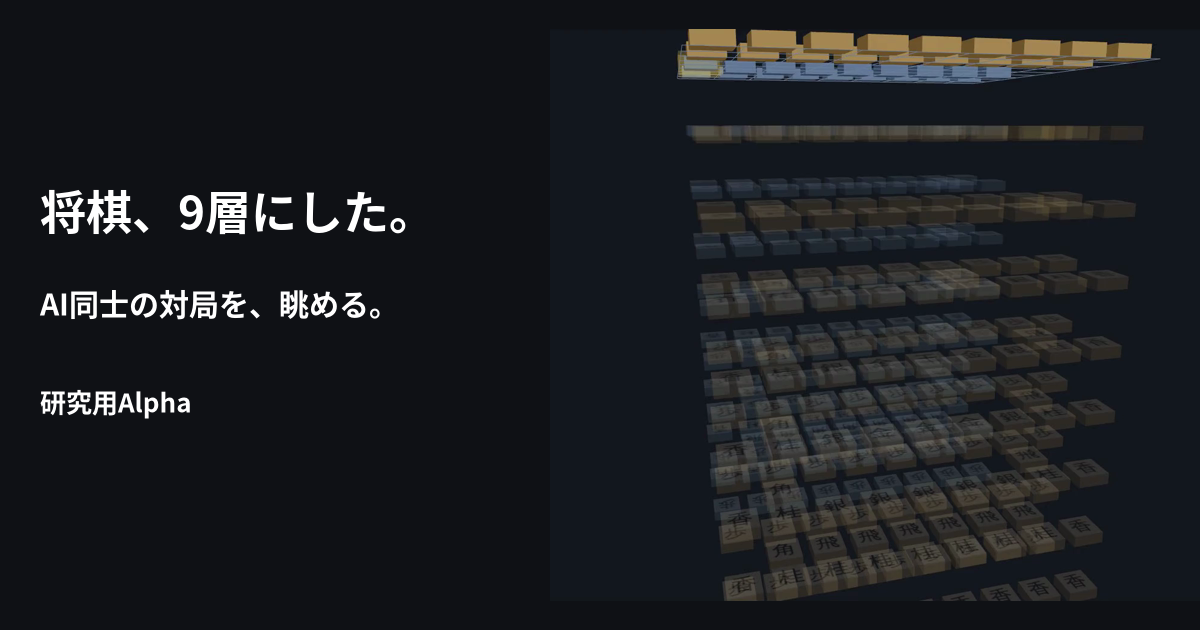
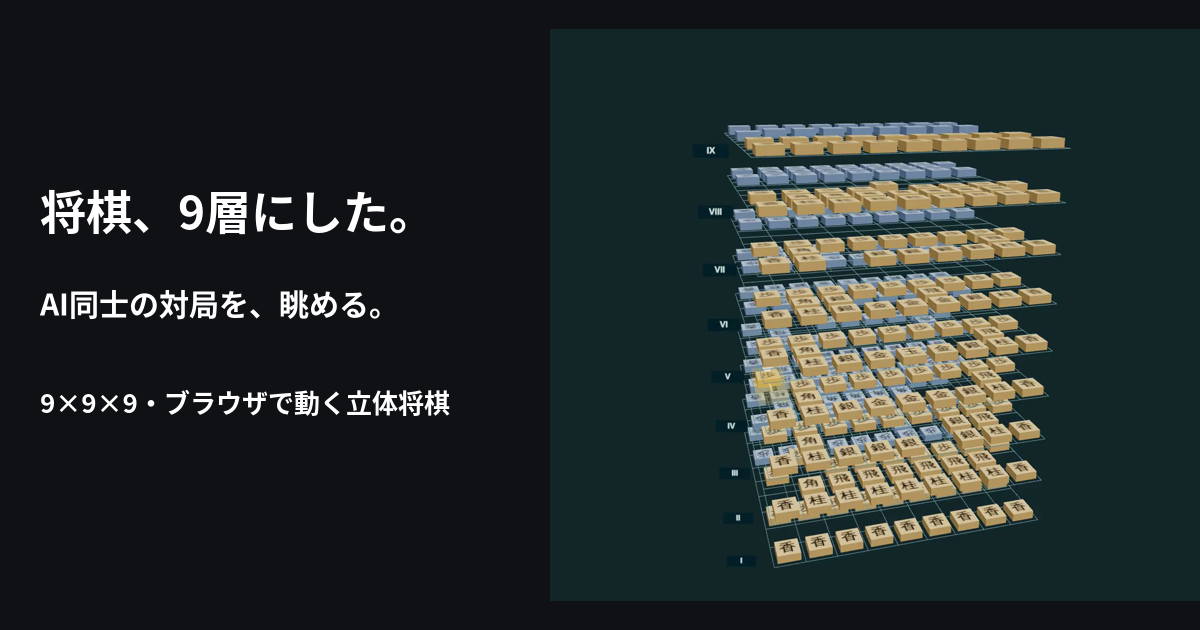
fix(arena): finish replay controls and verify bounded D1 storage on production

Changed region(s): [[0.555, 0.181, 0.9558, 0.9651], [0.555, 0.0302, 0.9558, 0.1508], [0.0308, 0.6032, 0.37, 0.6635]]

diff --git a/apps/web/src/App.tsx b/apps/web/src/App.tsx
@@ -34,6 +34,7 @@ export function App() {
   const [selection, setSelection] = useState<Selection>(NO_SELECTION);
   const [promotion, setPromotion] = useState<ClickResult['promotion']>(null);
   const [message, setMessage] = useState<string | null>(null);
+  const [resultDismissed,setResultDismissed] = useState(false);
   const [mode, setMode] = useState<Mode>('r-r');
   const [running, setRunning] = useState(false);
   const [difficulty, setDifficulty] = useState<Record<Color, ArenaDifficulty>>({ b: 'normal', w: 'normal' });
@@ -156,6 +157,7 @@ export function App() {
   const reset = (m: Mode = mode) => {
     if (!allowReplacement()) return false;
     pause();
+    setResultDismissed(false);
     setFollow(true); setSlice({ axis: 'z', index: 4 }); setLayers({ ...rawLayers, z: 4 });
     if (m !== 'r-r') setView('2d');
     aiRef.current?.journal.clear();
@@ -216,6 +218,7 @@ export function App() {
       const r = store.importRecord(text);
       if (!r.ok) ownedRecord.current = previousOwnership;
       if (r.ok) {
+        setResultDismissed(false);
         collection.current?.begin(false);
         aiRef.current?.journal.clear();
       }
@@ -230,7 +233,7 @@ export function App() {
   const status = snap.result
     ? resultText(snap.result)
     : snap.finished ? '対局中断' : `${snap.ply + 1}手目 ${snap.side === 'b' ? '☗先手' : '☖後手'}の番${snap.inCheck[snap.side] ? '（王手）' : ''}`;
-  const phaseText = snap.ply < snap.moveCount ? '履歴表示中：分岐は専用ボタンから' : { paused: '一時停止中', waiting: '次の着手待ち', thinking: `${snap.side === 'b' ? '先手' : '後手'} ${difficulty[snap.side] === 'model' ? 'モデル準備・思考中…' : `${difficulty[snap.side] === 'normal' ? 'Normal' : 'Easy'} 思考中…`}`,
+  const phaseText = snap.ply < snap.moveCount ? `履歴 ${snap.ply}/${snap.moveCount}手${snap.terminalFinished ? '・終局済み' : ''}` : { paused: '一時停止中', waiting: '次の着手待ち', thinking: `${snap.side === 'b' ? '先手' : '後手'} ${difficulty[snap.side] === 'model' ? 'モデル準備・思考中…' : `${difficulty[snap.side] === 'normal' ? 'Normal' : 'Easy'} 思考中…`}`,
     human: '人間の手番', history: '履歴表示中：分岐は専用ボタンから', finished: '対局終了', error: 'AIエラー' }[aiStatus.phase];
 
   const sideHands = (c: Color) => <Hands snap={snap} color={c} selection={selection} onHand={onHand} />;
@@ -265,6 +268,7 @@ export function App() {
       finally { ownedRecord.current=wasOwned; }
       if (!result.ok) { setMessage(`分岐できません: ${result.error}`); return false; }
       collection.current?.begin(wasOwned,snap.ply);
+      setResultDismissed(false);
       aiRef.current?.journal.clear();
       setRunning(mode !== 'r-r'); return true;
     } catch { setMessage('棋譜を分岐できません'); return false; }
@@ -307,15 +311,15 @@ export function App() {
           <div className="row">
             <button type="button" data-testid="undo" onClick={() => goto(Math.max(0,snap.ply-1))} disabled={snap.ply === 0}>◀ 1手戻る</button>
             <button type="button" onClick={() => { if (running) pause(); else { if (snap.ply < snap.moveCount) store.goto(snap.moveCount); if (!terminalFinished) setRunning(true); } }} className="primary" data-testid="toggle-run" disabled={snap.finished}>{running ? '一時停止' : snap.ply < snap.moveCount ? terminalFinished ? '終局位置へ' : '最新局面から再開' : snap.moveCount === 0 && mode === 'r-r' ? '観戦を開始' : '再開'}</button>
-            <button type="button" data-testid="ai-step" disabled={running || snap.finished || controller === 'human' || !!aiStatus.error} aria-disabled={stepBusy} onClick={stepOnce}>{snap.ply < snap.moveCount ? 'ここからAIで分岐' : '1手指す'}</button>
+            <button type="button" data-testid="ai-step" aria-label={snap.ply < snap.moveCount && mode !== 'r-r' ? 'この局面から対戦を分岐' : undefined} disabled={running || snap.finished || (controller === 'human' && snap.ply === snap.moveCount) || !!aiStatus.error} aria-disabled={stepBusy} onClick={() => { if (snap.ply < snap.moveCount && mode !== 'r-r') branchGame(); else stepOnce(); }}>{snap.ply < snap.moveCount ? mode === 'r-r' ? 'ここからAIで分岐' : 'ここから対戦を分岐' : '1手指す'}</button>
             <button type="button" data-testid="cancel-search" aria-disabled={aiStatus.phase !== 'thinking'} onClick={() => { if (aiStatus.phase === 'thinking') pause(); }}>思考を中断</button>
             <button type="button" data-testid="redo" onClick={() => goto(Math.min(snap.moveCount,snap.ply+1))} disabled={snap.ply === snap.moveCount}>1手進む ▶</button>
           </div>
           <div className="row playback-options"><label className="check"><input type="checkbox" data-testid="follow-move" checked={follow} onChange={event => { setSlice(slice); setLayers(layers); setFollow(event.target.checked); }} /> {follow ? '直前手の層を追う' : '手動表示・追従OFF'}</label><label>着手間の待ち時間 {delay}ms（思考時間は別）<input data-testid="move-delay" type="range" min={50} max={2000} step={50} value={delay} onChange={e => setDelay(Number(e.target.value))} /></label></div>
           <p className="muted follow-explanation">{follow ? '着手先の層へ自動で切り替えます。' : '手動表示中。追従をONにすると着手先へ戻ります。'}</p>
-          {snap.ply < snap.moveCount && <p className="history-position">履歴 {snap.ply} / {snap.moveCount}手{terminalFinished && <span> · {terminalResult ? resultText(terminalResult) : '中断した対局'}</span>}<button type="button" onClick={() => goto(snap.moveCount)}>末尾へ戻る</button>{mode !== 'r-r' && <button type="button" onClick={branchGame}>この局面から対戦を分岐</button>}</p>}
+          {snap.ply < snap.moveCount && <p className="sr-only">履歴 {snap.ply} / {snap.moveCount}手{terminalFinished && <span> · {terminalResult ? resultText(terminalResult) : '中断した対局'}</span>}</p>}
         </section>
-        {terminalFinished && snap.ply === snap.moveCount && <section className="game-result" aria-label="対局結果"><h2>{terminalResult ? resultText(terminalResult) : '対局中断'}</h2><div className="row"><button type="button" onClick={() => reset()}>同じ設定でもう一局</button><button type="button" onClick={() => goto(0)}>最初から振り返る</button><button type="button" onClick={exportRecord}>棋譜を保存</button></div></section>}
+        {terminalFinished && snap.ply === snap.moveCount && !resultDismissed && <section className="game-result" aria-label="対局結果"><h2>{terminalResult ? resultText(terminalResult) : '対局中断'}</h2><div className="row"><button type="button" onClick={() => { if (reset()) setRunning(true); }}>同じ設定でもう一局</button><button type="button" onClick={() => goto(0)}>最初から振り返る</button><button type="button" onClick={exportRecord}>棋譜を保存</button><button type="button" onClick={() => setResultDismissed(true)}>盤面を見る</button></div></section>}
       </section>
       <aside className="match-detail" aria-label="局面の詳細"><h2>棋譜をたどる</h2><MoveList snap={snap} onGoto={goto} /><button type="button" onClick={() => setSheet('research')}>AIの詳細を見る</button><button type="button" onClick={() => setSheet('record')}>棋譜を保存・読み込み</button></aside>
     </main>

diff --git a/apps/web/e2e/redesign.spec.ts b/apps/web/e2e/redesign.spec.ts
@@ -1,5 +1,6 @@
 import { test, expect } from './test';
 import { display, selectSetting, sliceAt } from './arena-controls';
+import {readFileSync} from 'node:fs';
 
 test('match setup traps focus, closes with Escape and returns focus without replacing the game', async ({ page }) => {
   await page.goto('/');
@@ -11,8 +12,9 @@ test('match setup traps focus, closes with Escape and returns focus without repl
   await expect(page.getByTestId('status')).toHaveText('1手目 ☗先手の番');
 });
 
-for (const side of ['h-r','r-h']) for (const difficulty of ['easy','normal']) {
-  test(`human entry starts ${side} against ${difficulty} and the real AI answers`, async ({ page }) => {
+for (const [width,height] of [[390,844],[768,1024],[1440,900]]) for (const side of ['h-r','r-h']) for (const difficulty of ['easy','normal']) {
+  test(`human entry starts ${side} against ${difficulty} at ${width} and the real AI answers`, async ({ page },info) => {
+    await page.setViewportSize({width:width!,height:height!});
     await page.goto('/');
     await selectSetting(page, 'thinking-budget', '100');
     await page.getByRole('button', { name: 'AIと対戦', exact: true }).click();
@@ -28,9 +30,29 @@ for (const side of ['h-r','r-h']) for (const difficulty of ['easy','normal']) {
     await expect(page.getByTestId('status')).toHaveText(side === 'h-r' ? '3手目 ☗先手の番' : '4手目 ☖後手の番');
     await expect(page.getByTestId('ai-phase')).toHaveText('人間の手番');
     await expect(page.getByTestId('ai-step')).toBeDisabled();
+    expect(await page.evaluate(()=>document.documentElement.scrollWidth<=innerWidth)).toBe(true);
+    const path=info.outputPath(`attachments/launch-human-${width}-${side}-${difficulty}.png`);await page.screenshot({path,fullPage:true});await info.attach('human-match',{path,contentType:'image/png'});
   });
 }
 for (const [width,height] of [[390,844],[768,1024],[1440,900]]) {
+  test(`history and terminal controls keep the board readable at ${width}x${height}`,async({page},info)=>{
+    await page.setViewportSize({width:width!,height:height!});await page.goto('/');page.on('dialog',dialog=>dialog.accept());
+    await selectSetting(page,'mode','h-r');
+    const fixtures=JSON.parse(readFileSync(new URL('../../../crates/voxelshogi-wasm/tests/fixtures/search.json',import.meta.url),'utf8'));
+    const initial=fixtures.find((f:{name:string})=>f.name==='corner-kings-b').record;
+    const record={...initial,moves:['999888','111222'],result:null,termination:null};
+    const load=async(value:unknown)=>page.getByTestId('import').setInputFiles({name:'fixed.json',mimeType:'application/json',buffer:Buffer.from(JSON.stringify(value))});
+    await load(record);await expect(page.getByRole('alert')).toContainText('棋譜を読み込みました');
+    await page.getByTestId('undo').click();await expect(page.getByTestId('ai-phase')).toContainText('履歴 1/2手');
+    const branch=page.getByRole('button',{name:'この局面から対戦を分岐',exact:true});await expect(branch).toBeInViewport();
+    expect((await branch.boundingBox())!.height).toBeGreaterThanOrEqual(44);
+    expect(await page.evaluate(()=>document.documentElement.scrollWidth<=innerWidth)).toBe(true);
+    const path=info.outputPath(`attachments/launch-history-${width}.png`);await page.screenshot({path,fullPage:true});await info.attach('history',{path,contentType:'image/png'});
+    await load({...record,result:{Win:{winner:'White',reason:'Resignation'}},termination:'Resignation'});
+    await page.getByRole('button',{name:'盤面を見る',exact:true}).click();
+    await expect(page.getByRole('region',{name:'対局結果'})).toHaveCount(0);await expect(page.locator('.board2d .cell')).toHaveCount(81);
+    const terminal=info.outputPath(`attachments/launch-terminal-${width}.png`);await page.screenshot({path:terminal,fullPage:true});await info.attach('terminal',{path:terminal,contentType:'image/png'});
+  });
   test(`the reading board and primary controls fit ${width}x${height}`, async ({ page },info) => {
     await page.setViewportSize({ width:width!,height:height! });
     await page.goto('/');

diff --git a/apps/web/tests/app-launch.test.tsx b/apps/web/tests/app-launch.test.tsx
@@ -231,6 +231,7 @@ it('requires an explicit human history branch and retains only the chosen prefix
   vi.spyOn(window, 'confirm').mockReturnValue(true);
   render(<App />);
   fireEvent.change(screen.getByTestId('mode'), { target: { value: 'h-r' } });
+  fireEvent.click(screen.getByTestId('toggle-run'));
   fireEvent.click(screen.getByRole('button', { name: 'この局面から対戦を分岐' }));
   expect(fake.imported).toHaveBeenCalledWith(JSON.stringify({ ruleset_id: 'voxelshogi-standard-v1', initial: 'fixture', moves: [], result: null, termination: null }));
 });
@@ -247,7 +248,9 @@ it('keeps the original record when explicit history branching is cancelled', () 
   fake.record=JSON.stringify({initial:'fixture',moves:['575565'],result:null,termination:null});
   const confirm=vi.spyOn(window,'confirm').mockReturnValue(true);render(<App />);
   fireEvent.change(screen.getByTestId('mode'),{target:{value:'h-r'}});
+  fireEvent.click(screen.getByTestId('toggle-run'));
   confirm.mockReturnValue(false);fireEvent.click(screen.getByRole('button',{name:'この局面から対戦を分岐'}));
+  expect(confirm).toHaveBeenCalledTimes(2);
   expect(fake.imported).not.toHaveBeenCalled();
 });
 it('retains automatic layer following while a human selects and plays a piece', () => {
@@ -258,4 +261,10 @@ it('retains automatic layer following while a human selects and plays a piece', 
   fireEvent.click(screen.getByRole('button',{name:'5六V 空きマス 移動候補'}));
   expect((screen.getByTestId('follow-move') as HTMLInputElement).checked).toBe(true);
   expect(fake.configure.mock.calls.at(-1)![0]).toMatchObject({running:true});
+});
+it('lets a viewer uncover the terminal board without discarding the result',()=>{
+  fake.snap={...fake.snap,finished:true,terminalFinished:true,result:{kind:'win',winner:'w',reason:'Resignation'}};
+  render(<App/>);fireEvent.click(screen.getByRole('button',{name:'盤面を見る'}));
+  expect(screen.queryByRole('region',{name:'対局結果'})).toBeNull();
+  expect(screen.getByTestId('status').textContent).toContain('後手の勝ち');
 });

diff --git a/apps/web/tests/automatic-client.test.ts b/apps/web/tests/automatic-client.test.ts
@@ -118,11 +118,14 @@ it('does not save a copied branch prefix before its first new real move', async 
 });
 
 it('binds native fetch, omits credentials, and keeps unavailable metadata or invalid payloads silent', async () => {
+  const receivers:unknown[]=[];
   vi.stubGlobal('fetch', function(this: unknown, url: string, options?: RequestInit) {
-    expect(this).toBe(globalThis); return fetcher(url, options);
+    receivers.push(this); return fetcher(url, options);
   });
   client = new AutomaticCollection(); await client.ready;
   client.observe(record(), conditions); await tick();
+  expect(receivers.length).toBeGreaterThanOrEqual(3);
+  expect(receivers.every(receiver=>receiver===globalThis)).toBe(true);
   expect(posts[0]!.options).toMatchObject({ credentials: 'omit', redirect: 'error', cache: 'no-store' });
   client.begin(true); client.observe('invalid', conditions); client.observe(record(Array(2049).fill('191281')), conditions); await tick();
   expect(posts).toHaveLength(2); // replacement finalization only

diff --git a/apps/web/e2e/game.spec.ts b/apps/web/e2e/game.spec.ts
@@ -39,11 +39,14 @@ test('shows the initial position in 2D and 3D', async ({ page }) => {
 test('human vs AI: select, see targets, move, inspect history, undo', async ({ page }) => {
   await selectSetting(page, 'difficulty-w', 'easy');
   await selectSetting(page, 'mode', 'h-r');
+  // Starting a match restores automatic following; choose the fixed V view explicitly.
+  await page.getByTestId('follow-move').uncheck();
   await cell(page, idx(4, 6, 4)).click();
   await expect(page.locator('.board2d .cell.target')).toHaveCount(1);
   await expect(cell(page, idx(4, 5, 4))).toHaveClass(/target/);
   await cell(page, idx(4, 5, 4)).click();
   await expect(page.getByTestId('status')).toHaveText('3手目 ☗先手の番');
+  await expect(page.getByTestId('follow-move')).not.toBeChecked();
   await expect(cell(page, idx(4, 5, 4))).toHaveText('歩');
   await expect(cell(page, idx(4, 6, 4))).toHaveText('');
   await expect(page.getByTestId('move-list')).toContainText('1. ☗5七V→5六V');

diff --git a/apps/web/tests/automatic-receiver.test.ts b/apps/web/tests/automatic-receiver.test.ts
@@ -33,6 +33,16 @@ beforeEach(() => {
 });
 afterEach(() => db.close());
 
+it('reports creation when D1 counts trigger writes in meta.changes',async()=>{
+  const original=GAMES;
+  GAMES={prepare(sql){const st=original.prepare(sql);const bound={
+    bind(...values:(string|number)[]){st.bind(...values);return bound;},first:<T>()=>st.first<T>(),
+    async run(){const result=await st.run();return{...result,meta:{changes:result.meta.changes?5:0}};}
+  };return bound;}};
+  expect((await send()).status).toBe(201);
+  expect(await(await send()).json()).toMatchObject({duplicate:true});
+});
+
 it('creates one row, extends it atomically, and never charges duplicate or stale snapshots', async () => {
   const first = packet(); expect((await send(first)).status).toBe(201);
   const next = packet(2); next.record.moves.push('991891');

diff --git a/apps/web/src/collection/automatic-receiver.ts b/apps/web/src/collection/automatic-receiver.ts
@@ -19,5 +19,5 @@ export async function persistAutomatic(db: GameDatabase, value: AutomaticSubmiss
   if (row.version === value.version && row.payload_sha256 !== sha) throw new Error('collection_conflict');
   return { body: { gameId: value.gameId, requestId: value.requestId, version: row.version, status: row.status,
     duplicate: changed.meta.changes === 0 && row.version === value.version, ignored: row.version > value.version },
-  status: changed.meta.changes === 1 && value.version === 1 ? 201 : 200 };
+  status: (changed.meta.changes ?? 0) > 0 && value.version === 1 ? 201 : 200 };
 }

diff --git a/README.md b/README.md
@@ -4,7 +4,7 @@
 
 **三次元将棋のAI対局を眺め、AIを作り、比べるためのオープンソースプロジェクトです。**
 
-9×9の盤が9層重なる、729マスの三次元将棋を扱います。ブラウザでの観戦体験と、ルールエンジン・データ・モデルを使った再現可能なAI研究を一緒に開発しています。現在はAlpha版です。
+9×9の盤が9層重なる、729マスの三次元将棋を扱います。ブラウザでの観戦体験と、ルールエンジン・データ・モデルを使った再現可能なAI研究を一緒に開発しています。
 
 ## ブラウザで試す
 
@@ -17,20 +17,26 @@
 
 通常の対局はEasy（ランダム）とNormal（探索）を選べます。推論ラボは**未学習モデルによる技術デモ**です。検証した端末・精度形式・実行先は [モデルの検証記録](docs/M3_VALIDATION.md) にまとめています。
 
+「観戦を開始」でAI同士の対局を始められます。「立体で眺める」で全体を見渡し、「断面を読む」で1層を詳しく読めます。
+自分で指す場合は、上部の「AIと対戦」から先手／後手と相手を選び、「対戦をはじめる」を押します。
+新画面の公開・検証状況は[実装の進捗](docs/design/ARENA_IMPLEMENTATION_PROGRESS.md)を参照してください。
+
 ### 学習済みモデルで観戦する
 
 1. [Hugging Faceのモデルページ](https://huggingface.co/voxelshogi/voxelshogi-transformer-s)で取得を申請します。
-2. 承認後、観戦画面の「学習済みモデルを読み込む」にある固定revisionのフォルダー全体を取得し、同じ画面でフォルダーを選びます。
+2. 承認後、観戦画面上部の「モデル」→「学習済みモデルを読み込む」にある固定revisionのフォルダー全体を取得し、同じ画面でフォルダーを選びます。
 3. 先手・後手のAIを「学習済みモデル」にし、形式とWASM／WebGPUを選び、1手送りや自動再生で観戦します。
 
 FP32、FP16（重み）、INT8（重み）の実ファイルを選んで比較できます。FP16・INT8重み版の計算はFP32です。[取得方法・精度・容量・実機検証](docs/M6_PORTABLE.md)を参照してください。読み込んだモデルは端末内で実行します。
 
-### 公開前レビューと対局データ
+### UIレビューと対局データ
 
-[Claude Codeを使ったUI/UXレビュー](docs/PUBLIC_LAUNCH_REVIEW.md)を公開しています。初見の観戦開始、層をまたぐ着手の追跡、スマホ幅での盤面の配置に改善候補があり、研究用Alphaとして提供しています。
-[公開準備計画](docs/PUBLIC_LAUNCH_PLAN.md)に各フェーズの目的とゴールをまとめています。観戦導線・着手追跡・狭幅表示・同意制の棋譜保存を公開しました。[動画制作計画](docs/DEMO_VIDEO_PLAN.md)では冒頭3秒と15秒本編を設計しています。15秒本編・3秒候補2本・ポスターを制作し、形式・全編デコード・hash・目視を確認しました。公開版との照合は[L6の記録](docs/L6_PUBLIC_VALIDATION.md)を参照してください。追加学習は停止したままです。[公開準備の現在地](docs/PUBLIC_LAUNCH_PROGRESS.md)
+[Claude Codeによるレビューと改修計画](docs/design/ARENA_IMPLEMENTATION_PLAN.md)に沿って、盤中心の観戦画面と人間対AIの入口を整えています。
+目的・実装・検証済みの範囲は[進捗](docs/design/ARENA_IMPLEMENTATION_PROGRESS.md)、映像は[動画制作計画](docs/DEMO_VIDEO_PLAN.md)へ記録します。
 
-**対局データの送信は任意で、対局ごとにOFFから始まります。** 同意した終局・明示した中断だけをCloudflareへ保存する[実装と運用](docs/GAME_DATA_COLLECTION.md)を追加しています。通常の「保存」は端末へのJSONダウンロードです。公開WorkerとD1の保存・再送・hash照合を確認済みです。最終公開版のPC実操作まで確認し、PC対象の研究用Alphaとして公開しています。実スマホは未確認です。確認状況は[進捗](docs/PUBLIC_LAUNCH_PROGRESS.md)を参照してください。[以前の保存調査](docs/CLOUDFLARE_GAME_DATA_AUDIT.md)は2026-11-12時点の記録です。
+新画面で始めた対局は、初手・途中経過・終局をCloudflare D1へ自動保存します。読み込んだ棋譜やその分岐は収集せず、学習・HF公開へ自動利用しません。
+「棋譜」の保存は端末へのJSONダウンロードです。[保存内容と期間](apps/web/public/privacy.html)・[実装と運用](docs/AUTOMATIC_GAME_STORAGE.md)を参照してください。
+実スマホの操作確認は未完了です。過去の任意送信と旧UIの公開確認は[L6の履歴](docs/L6_PUBLIC_VALIDATION.md)として保持しています。
 
 ## このプロジェクトで目指すもの
 

diff --git a/docs/design/ARENA_IMPLEMENTATION_PROGRESS.md b/docs/design/ARENA_IMPLEMENTATION_PROGRESS.md
@@ -11,8 +11,8 @@
 | U5 | 新UIのE2E・画像の保存経路を更新 | Claude Codeの実装後再レビュー、必須／関連CI、通常公開と配信照合 |
 | U6 | 新画面の収録操作、中央の実異層着手の選択、冒頭の拡大と層字幕、公開SHA照合をハーネスへ追加 | Linuxで冒頭3秒、15秒本編・2案・ポスターの再制作／実画像と全検査 |
 
-Macの軽量確認は関連11ファイル91テスト、typecheck、関連lintが成功。
-APIの4変異、UI／自動保存の8変異、レビュー修正の7変異を検出して復元した。動画の中央異層着手選択の変異も検出した。全変異・WebGL・探索・実モデル・録画はLinuxへ置く。
+Macの軽量確認は固定Node 24.22.1で関連11ファイル93テスト、typecheck、関連lintが成功。
+APIの4変異、UI／自動保存の8変異、レビュー修正の7変異、終局表示・D1応答の2変異を検出して復元した。動画の中央異層着手選択の変異も検出した。全変異・WebGL・探索・実モデル・録画はLinuxへ置く。
 これらのローカル結果を公開済み・実ブラウザの成功とは扱わない。
 
 専用D1 `voxelshogi-games`へ0002 migrationを先行適用済み。追加table／triggerだけで旧tableは保持した。
@@ -50,3 +50,13 @@ readonlyの2D駒は実際にdisabledにし、計測driverを新UIの入口へ接
 
 [候補動画run 43566217608](https://github.com/ayutaz/voxelshogi/actions/runs/43566217608)はsource `f486ab9`から成功。
 これは公開版一致の最終動画ではない。冒頭の明るさと中央異層着手はcontact sheetで確認し、7〜11秒の操作をさらに拡大して再収録する。
+
+修正source `ff33b0d`の実モデル7件は成功し、通常E2Eは40成功・固定V断面の確認1件が失敗した。
+新規対局で追従がONへ戻るため、手動OFFを明示して駒位置を確認するテストへ直した。
+全変異では通信mock内のassertをmetadata再試行が捕捉し、失敗でなく時間上限になったため、呼出receiverを記録してtest本体で検査するよう修正した。変異の時間上限を成功へ読み替えていない。
+
+実D1の[診断](../experiments/arena-storage-diagnostic-20261114.json)は、延長・再送・競合・古いsnapshot・終局固定・保存本文／hashを確認し、合成行を削除済み。
+新規応答が200になったためAPI契約の最終成功はfalseを保持し、D1がtrigger分を含めて返す`meta.changes`にも対応した回帰テストを追加した。修正版の配信後に201を含め再確認する。
+
+候補の追加検証はDemo videoの`verify_ui=true`（全52 UI E2E・実モデル・カメラ3回・画像・動画）とQuality measurementsへ絞る。
+同じUI修正のためにPython学習変異8 shardを毎回再実行しない。通常PRの必須8件とmainの全Gate／公開前検証は維持する。

diff --git a/docs/PUBLIC_ANNOUNCEMENT.md b/docs/PUBLIC_ANNOUNCEMENT.md
@@ -8,24 +8,24 @@
 
 > 将棋、9層にした。
 >
-> AI同士の対局を、ブラウザで眺める研究用Alpha「VoxelShogi」。
+> AI同士の対局を、ブラウザで眺める「VoxelShogi」。
 > 止めて、一手ずつ追えます。モデル取得なしで観戦できます。
 >
-> PC向け。対局データの送信は任意です。
+> 「AIと対戦」から、自分で指すこともできます。
 > https://voxelshogi.yousan-apps.workers.dev
 
-PC向けの表記は、元計画の「実スマホを確保できなければPC対象Alpha」の場合の文案。
-実スマホの確認が済んだ場合だけ、確認した機種・OS・ブラウザの範囲に合わせて更新する。
+新UIの公開確認・最終動画の検査が終わるまでは送信しない。
+実スマホ未確認を全端末対応へ読み替えず、確認した範囲は公開検証文書に残す。
 ゲームの強さ・学習効果の実証、全端末対応や拡散数の保証は書かない。
 
 ## 動画の代替テキスト
 
-9層に重なる立体の将棋盤。実際のAI対局の一手が別の層へ移る。観戦を一時停止した画面で1手送りを操作し、最後にブラウザで観戦できるURLを表示する。Easy同士の対局の再生で、研究用Alpha。
+9層に重なる立体の将棋盤。実際のAI対局の一手が別の層へ移る。観戦を一時停止した画面で1手送りを操作し、最後にブラウザで観戦できるURLを表示する。Easy同士の対局の再生。
 
 ## 投稿前の照合
 
 - 公開URLのbuildと最終動画のUI版が一致し、リンクが開ける。
 - 添付するのは検査済みの15秒本編。3秒候補を本編と取り違えない。
 - 「モデル取得なし」はEasy／Normalを指す。追加の学習済みSモデルの取得にはHFの承認手順がある。
-- 任意送信は対局ごとの既定OFFを確認し、公開Worker＋D1の検証が済むまで「蓄積される」と宣伝しない。
+- 新UIの自動保存は公開Worker＋D1の検証で確認する。棋譜の収集や研究利用の実績を、APIの成功だけから宣伝しない。
 - OGPは実盤面を使い、description・画像・本文・動画で用途と公開範囲を一致させる。
